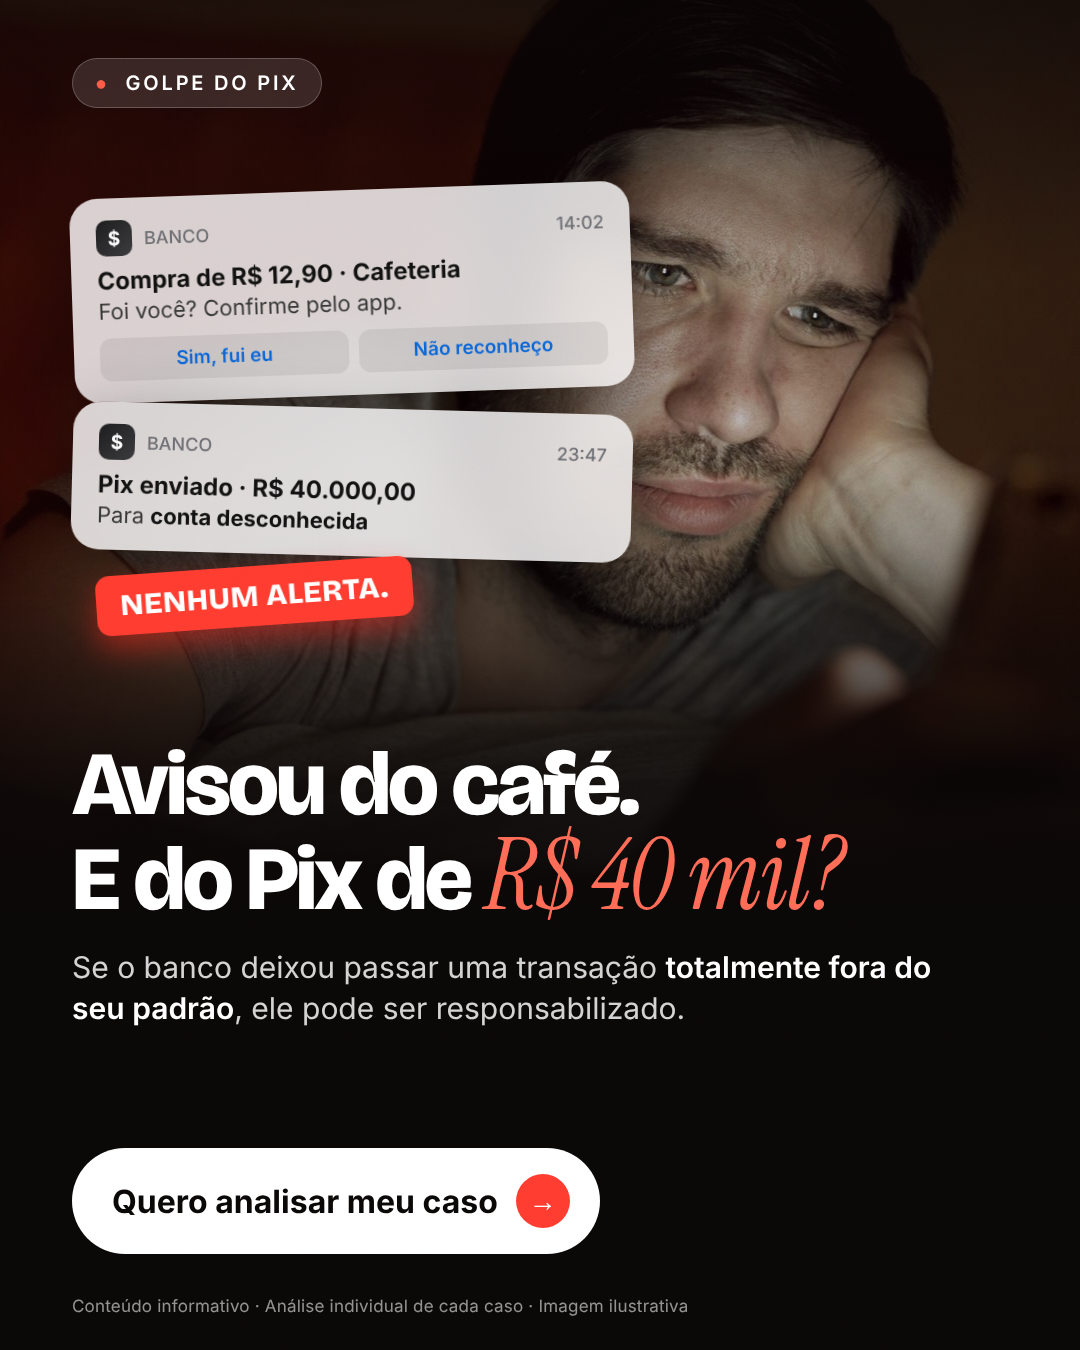
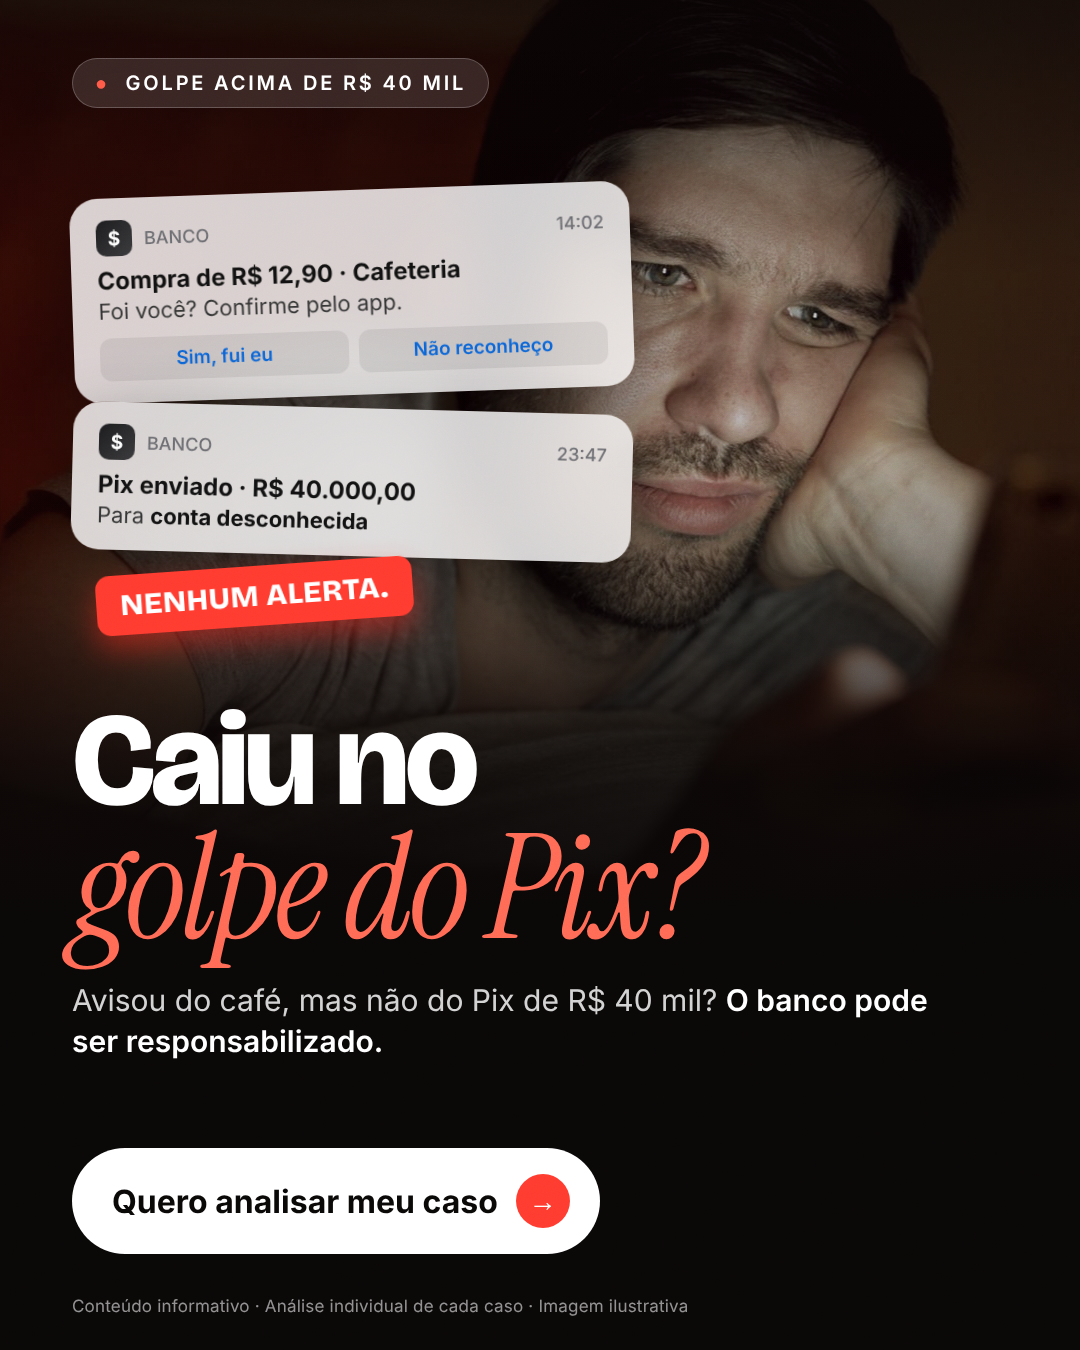
Estáticos Salgado: título grande 'Caiu no golpe do Pix?' e 'Dívidas no banco acima de R$ 50 mil?'
Claude-Session: https://claude.ai/code/session_01C88VYTj5rXhHR8C1W8aJFQ

Changed region(s): [[0.0611, 0.5289, 0.8556, 0.7778], [0.2444, 0.0311, 0.4583, 0.0933]]

diff --git a/estaticos-salgado-gpix-rcpcc/rcpcc.html b/estaticos-salgado-gpix-rcpcc/rcpcc.html
@@ -5,9 +5,11 @@ body{background:#efe9df;color:#141210}
 .ph2{position:absolute;right:0;bottom:0;width:600px;height:860px;background:linear-gradient(0deg,#efe9df 0%,rgba(239,233,223,0) 22%,rgba(239,233,223,0) 76%,#efe9df 100%)}
 .eyebrow{position:absolute;top:70px;left:72px;color:#c0291c;display:flex;gap:14px;align-items:center}
 .eyebrow:before{content:"";width:46px;height:3px;background:#c0291c}
-.h{position:absolute;top:130px;left:72px;right:60px;font-size:112px;line-height:.92}
-.h .serif{color:#c0291c;font-size:124px;letter-spacing:-.03em}
-.opts{position:absolute;top:560px;left:72px;width:560px;z-index:3}
+.h{position:absolute;top:128px;left:72px;right:40px;font-size:122px;line-height:.92}
+.h .serif{color:#c0291c;font-size:140px;letter-spacing:-.03em}
+.kick{position:absolute;top:548px;left:72px;width:600px;font-size:44px;line-height:1.05;z-index:3}
+.kick .serif{color:#c0291c;font-size:50px}
+.opts{position:absolute;top:668px;left:72px;width:560px;z-index:3}
 .o{display:flex;align-items:center;gap:20px;padding:20px 0;border-bottom:1.5px solid rgba(20,18,16,.16);font-size:30px;line-height:1.2}
 .o:last-child{border-bottom:none}
 .o .m{flex:none;width:46px;height:46px;border-radius:50%;display:flex;align-items:center;justify-content:center;font-weight:800;font-size:24px}
@@ -24,14 +26,14 @@ body{background:#efe9df;color:#141210}
 .grain{opacity:.22;mix-blend-mode:multiply}
 </style></head><body>
 <div class="ph"></div><div class="ph2"></div>
-<div class="eyebrow">Dívida no banco acima de R$ 50 mil</div>
-<div class="h disp">Não são só<br>duas saídas.<br><span class="serif">Existe uma terceira.</span></div>
+<div class="eyebrow">Cartão · Cheque especial · Empréstimo</div>
+<div class="h disp">Dívidas no banco<br>acima de<br><span class="serif">R$ 50 mil?</span></div>
+<div class="kick disp">Não são só duas saídas.<br><span class="serif">Existe uma terceira.</span></div>
 <div class="opts">
  <div class="o x"><div class="m">✕</div><div class="t">Pagar do jeito que o banco quer</div></div>
  <div class="o x"><div class="m">✕</div><div class="t">Esperar a cobrança virar processo</div></div>
  <div class="o ok"><div class="m">✓</div><div>Negociar com estratégia</div></div>
 </div>
-<div class="chips"><div>Cartão de crédito</div><div>Cheque especial</div><div>Empréstimo pessoal</div></div>
 <div class="cta">Quero analisar minha dívida <i>→</i></div>
 <div class="foot">Conteúdo informativo. Não há garantia de resultado · Imagem ilustrativa</div>
 <div class="grain"></div>

diff --git a/estaticos-salgado-gpix-rcpcc/gpix.html b/estaticos-salgado-gpix-rcpcc/gpix.html
@@ -19,16 +19,16 @@
 .btns{display:flex;gap:10px;margin-top:14px}
 .btns div{flex:1;text-align:center;font-weight:600;font-size:19px;padding:10px 0;border-radius:12px;background:rgba(0,0,0,.07);color:#0a64d6}
 .flag{position:absolute;top:566px;left:96px;z-index:7;background:#ff3b2f;color:#fff;font-weight:800;font-family:'Bricolage Grotesque';font-size:30px;letter-spacing:.02em;padding:12px 24px;border-radius:14px;transform:rotate(-4deg);box-shadow:0 14px 30px rgba(255,40,30,.45)}
-.txt{position:absolute;left:72px;right:72px;top:742px;z-index:5}
-.h{font-size:90px}
-.h .serif{font-size:100px;color:#ff6a55;letter-spacing:-.02em}
+.txt{position:absolute;left:72px;right:60px;top:700px;z-index:5}
+.h{font-size:132px;line-height:.92}
+.h .serif{font-size:146px;color:#ff6a55;letter-spacing:-.025em}
 .sub{margin-top:24px;font-size:30px;line-height:1.38;color:rgba(255,255,255,.82);max-width:900px}
 .sub b{color:#fff;font-weight:600}
 .cta{position:absolute;left:72px;bottom:96px;z-index:5;background:#fff;color:#0a0707}
 .cta i{background:#ff3b2f;color:#fff}
 </style></head><body>
 <div class="ph"></div><div class="tint"></div>
-<div class="top"><div class="pill"><b>●</b>&nbsp; Golpe do PIX</div></div>
+<div class="top"><div class="pill"><b>●</b>&nbsp; Golpe acima de R$ 40 mil</div></div>
 <div class="notif n1"><div class="nh"><div class="ic">$</div>BANCO<span>14:02</span></div>
  <div class="nt">Compra de R$ 12,90 · Cafeteria</div><div class="nv">Foi você? Confirme pelo app.</div>
  <div class="btns"><div>Sim, fui eu</div><div>Não reconheço</div></div></div>
@@ -36,8 +36,8 @@
  <div class="nt">Pix enviado · R$ 40.000,00</div><div class="nv">Para <b>conta desconhecida</b></div></div>
 <div class="flag">NENHUM ALERTA.</div>
 <div class="txt">
- <div class="h disp">Avisou do café.<br>E do Pix de <span class="serif">R$ 40 mil?</span></div>
- <div class="sub">Se o banco deixou passar uma transação <b>totalmente fora do seu padrão</b>, ele pode ser responsabilizado.</div>
+ <div class="h disp">Caiu no<br><span class="serif">golpe do Pix?</span></div>
+ <div class="sub">Avisou do café, mas não do Pix de R$ 40 mil? <b>O banco pode ser responsabilizado.</b></div>
 </div>
 <div class="cta">Quero analisar meu caso <i>→</i></div>
 <div class="foot">Conteúdo informativo · Análise individual de cada caso · Imagem ilustrativa</div>

diff --git a/estaticos-salgado-gpix-rcpcc/COPY.md b/estaticos-salgado-gpix-rcpcc/COPY.md
@@ -18,7 +18,7 @@ Regras seguidas:
 
 ---
 
-## GPIX — "Avisou do café. E do Pix de R$ 40 mil?"
+## GPIX — "Caiu no golpe do Pix?"
 
 ### Texto curto (principal recomendado)
 > O banco manda alerta por uma compra de R$ 12.
@@ -51,17 +51,17 @@ Regras seguidas:
 > 👉 Preencha o formulário. Nossa equipe chama no WhatsApp.
 
 ### Títulos (até 5 variações)
-1. O banco percebeu esse Pix?
-2. Avisou do café. E do Pix de R$ 40 mil?
+1. Caiu no golpe do Pix? O banco pode responder
+2. O banco percebeu esse Pix?
 3. Golpe Pix acima de R$ 40 mil: o banco pode responder
-4. Pix fora do padrão e nenhum alerta do banco?
+4. Avisou do café. E do Pix de R$ 40 mil?
 
 ### Descrição
 Analisamos o que o banco fez
 
 ---
 
-## RCPCC — "Não são só duas saídas. Existe uma terceira."
+## RCPCC — "Dívidas no banco acima de R$ 50 mil?"
 
 ### Texto curto (principal recomendado)
 > Dívida no banco acima de R$ 50 mil?
@@ -94,8 +94,8 @@ Analisamos o que o banco fez
 > 👉 Preencha o formulário. Nossa equipe chama no WhatsApp.
 
 ### Títulos (até 5 variações)
-1. Existe uma terceira saída
-2. Não são só duas saídas para a dívida no banco
+1. Dívidas no banco acima de R$ 50 mil?
+2. Existe uma terceira saída
 3. Dívida acima de R$ 50 mil? Negocie com estratégia
 4. Cartão e cheque especial: existe outro caminho
 
